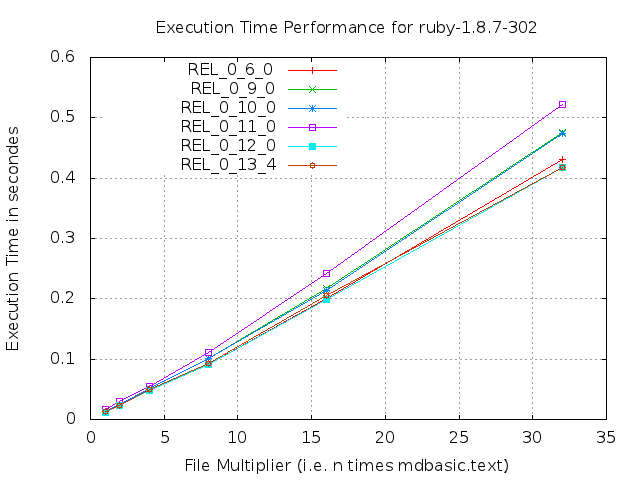
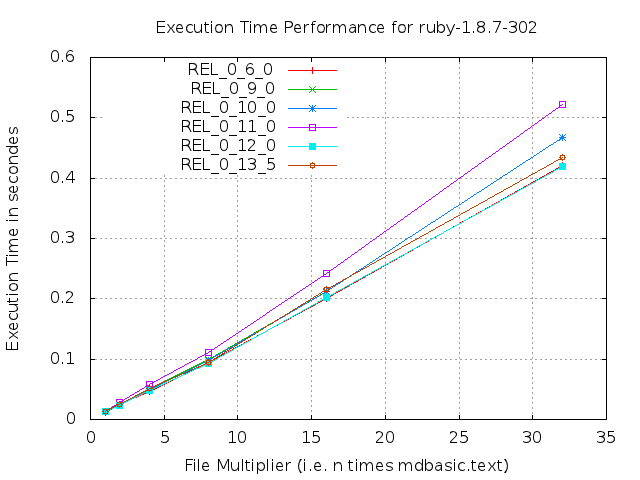
Updated release notes, version number and benchmark graphs

diff --git a/lib/kramdown/version.rb b/lib/kramdown/version.rb
@@ -23,6 +23,6 @@
 module Kramdown
 
   # The kramdown version.
-  VERSION = '0.13.4'
+  VERSION = '0.13.5'
 
 end
